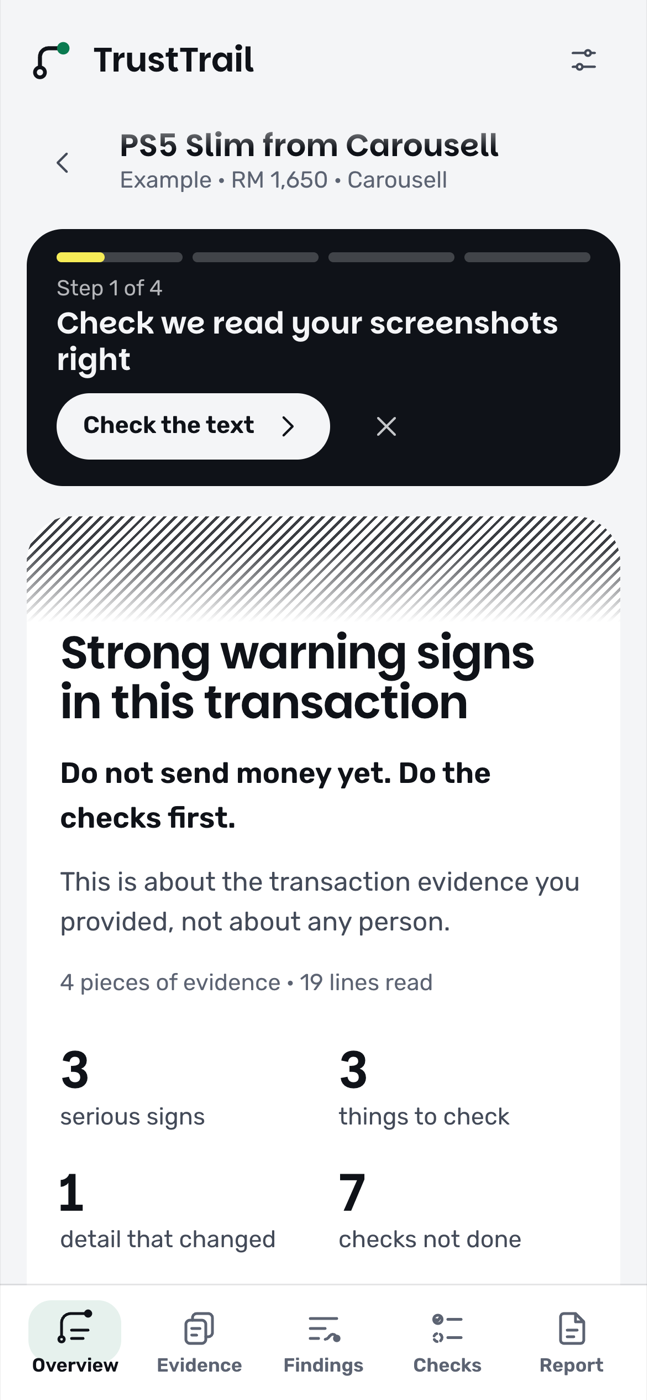
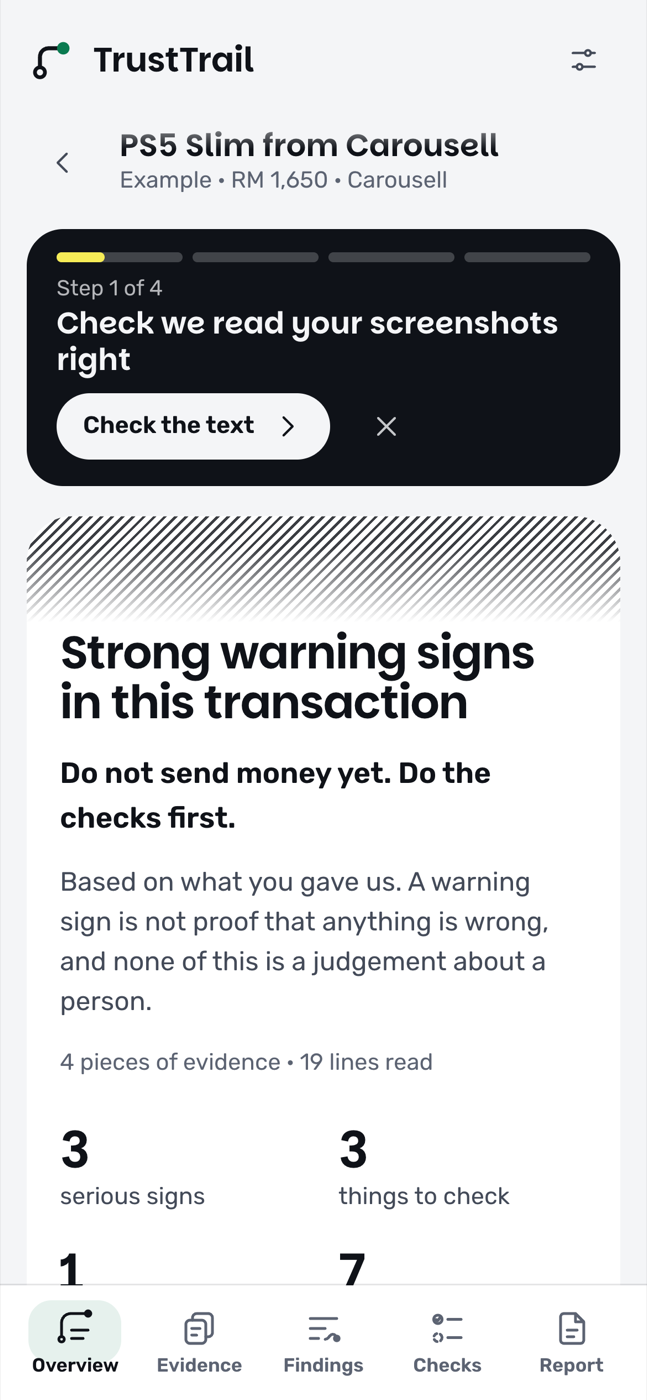
Showcase: interview, updates, language support, refreshed screenshots

Changed region(s): [[0.0927, 0.6143, 0.8964, 0.9214], [0.4637, 0.7371, 0.8037, 0.9214]]

diff --git a/docs/REPORT.md b/docs/REPORT.md
@@ -9,11 +9,13 @@ A private tool for one moment: you are about to pay someone you met online for a
 | Area | Delivered |
 |------|-----------|
 | Analysis engine | 14 versioned rules from the research + 1 for checks the user runs; contradiction finder (price, payee, account, storage, model, location); copied-review clustering; link spelling inspector; six-outcome ordered aggregation; evidence graph; timeline |
-| Reading screenshots | On-device OCR (English + Malay), one row per chat message, word-level boxes, editable text with history |
+| Reading screenshots | On-device OCR in 25 languages (the right ones picked from your device and country), one row per chat message, word-level boxes, editable text with history |
+| Interview | Up to 11 questions, one at a time, about the payment, the seller and how the deal went. Answers become findings marked "From your answers" and a "Looks normal" list |
+| Updates | A dated diary per deal (I paid, the item arrived, the seller went quiet, notes); "I paid" brings up the first steps for your country |
 | App | A full landing page (how it works, what you get, privacy, questions), 3-step new check, case workbench (Overview, Evidence, Findings in three views, Checks, Report), Settings, a step-by-step guide in every case |
 | AI (optional) | "AI suggestions": says what is going on in plain words, then 2 to 4 next steps tailored to the deal, each with a ready-to-send message in the seller's language, and up to three extra lines worth a look. On-device where the browser has a built-in model; otherwise Google's free Gemini, only after an explicit yes each time, with numbers blocked out. The AI never decides the result |
 | Privacy | No server, no account, no analytics. Images re-encoded on arrival. Third-party numbers hidden in reports by default. Cases delete themselves after 30 days; hard delete with a receipt |
-| Languages | 25 interface languages (English reviewed, 24 machine-drafted previews), right-to-left support. Analysis in English and Malay |
+| Languages | 25 interface languages (English reviewed, 24 machine-drafted previews), right-to-left support. Numbers, names, links, the interview and AI suggestions work in every language; word-by-word warning rules exist for English and Malay |
 | Platform | Installable, works offline, light and dark, phone to desktop |
 
 There is **no backend**, on purpose: everything runs in the browser, so there is nothing server-side to operate, secure or pay for. The reasoning is in `DECISIONS.md`.
@@ -23,7 +25,7 @@ All of this was run on 11 Nov 2026 against the live site with real headless Chro
 
 | Check | Result |
 |-------|--------|
-| Automated tests | 1,412 passing across 11 files (`npm test`) |
+| Automated tests | 1,424 passing across 12 files (`npm test`) |
 | Type check + production build | Clean (`npm run build`) |
 | Fresh case with a real image through OCR | Result shown about 5 s after pressing "Check this deal" (includes first download of the OCR engine) |
 | Requests to any other server during a full session (without pressing "Ask Google Gemini") | 0 |
@@ -45,6 +47,9 @@ Screenshots of every screen at each size are in `docs/screens/`.
 - Official check routes are verified for Malaysia and Singapore only.
 - OCR accuracy on real phone screenshots has not been measured.
 - No independent security review. Accessibility has passed an automated audit only; no screen-reader testing with real users yet.
+
+## Fixed after the owner's live test (11 Nov)
+An outside review of a real test run found three problems, all fixed and covered by tests: a buyer's own offer to pay first was reported as the seller asking for it; a finding claimed reviews "came from the seller" without evidence; and results did not separate risk from proof. The overview now shows warning signs, what looks normal and what is not confirmed as three separate groups.
 
 ## Known rough edges (from the test pass)
 - A negotiated discount shows up as "the price changed" (labelled "Worth checking", with "a price you agreed together" as the innocent reading).

diff --git a/README.md b/README.md
@@ -39,6 +39,14 @@ Everything runs in your browser. No account, no server, no analytics. Screenshot
 
 <p align="center"><img src="screens/ai-suggestions.png" width="70%" alt="AI suggestions: a plain summary and three next steps with messages in Malay"></p>
 
+## A short interview, one question at a time
+
+After you add screenshots, TrustTrail asks about the payment, the seller and how the deal went. Answers sharpen the result, and they settle things a screenshot cannot, such as who suggested paying first.
+
+| One question at a time | Updates as things happen |
+|---|---|
+| <img src="screens/intake-questions.png" alt="Interview question"> | <img src="screens/own-case-updates.png" alt="Updates diary"> |
+
 ## How it works
 
 ```
@@ -64,7 +72,7 @@ Built to be usable by anyone: large touch targets, plain words, numbers first, d
 
 | | |
 |---|---|
-| Automated tests | 1,412 passing |
+| Automated tests | 1,424 passing |
 | Fictional rule fixtures | 840 (English, Malay, mixed Manglish) |
 | Findings quoting their source word for word | 537 of 537 |
 | Injected instructions that changed a result | 0 of 130 |
@@ -83,7 +91,7 @@ Stack: TypeScript, React, Vite, IndexedDB, Tesseract compiled to WebAssembly (se
 ## Honest status
 
 - The rules are tested only on **fictional examples written by the same person who wrote the rules**. That shows the engine does what was intended; it does not show how accurate it is on real conversations.
-- Analysis works for **English and Malay** only, both labelled beta. Other languages are stored and shown, not analysed.
+- Screenshots are read in **25 languages**, and numbers, names, links, the interview and AI suggestions work in all of them. The word-by-word warning rules exist for **English and Malay** only, both labelled beta.
 - Only the English text has been reviewed by a person. The other 24 languages are machine-drafted previews and say so in Settings.
 - Official check routes are verified for **Malaysia and Singapore** only.
 - No user study has been run yet and no independent security review. Accessibility passes an automated audit (0 violations on every screen); a screen-reader pass with real users is still to do.
